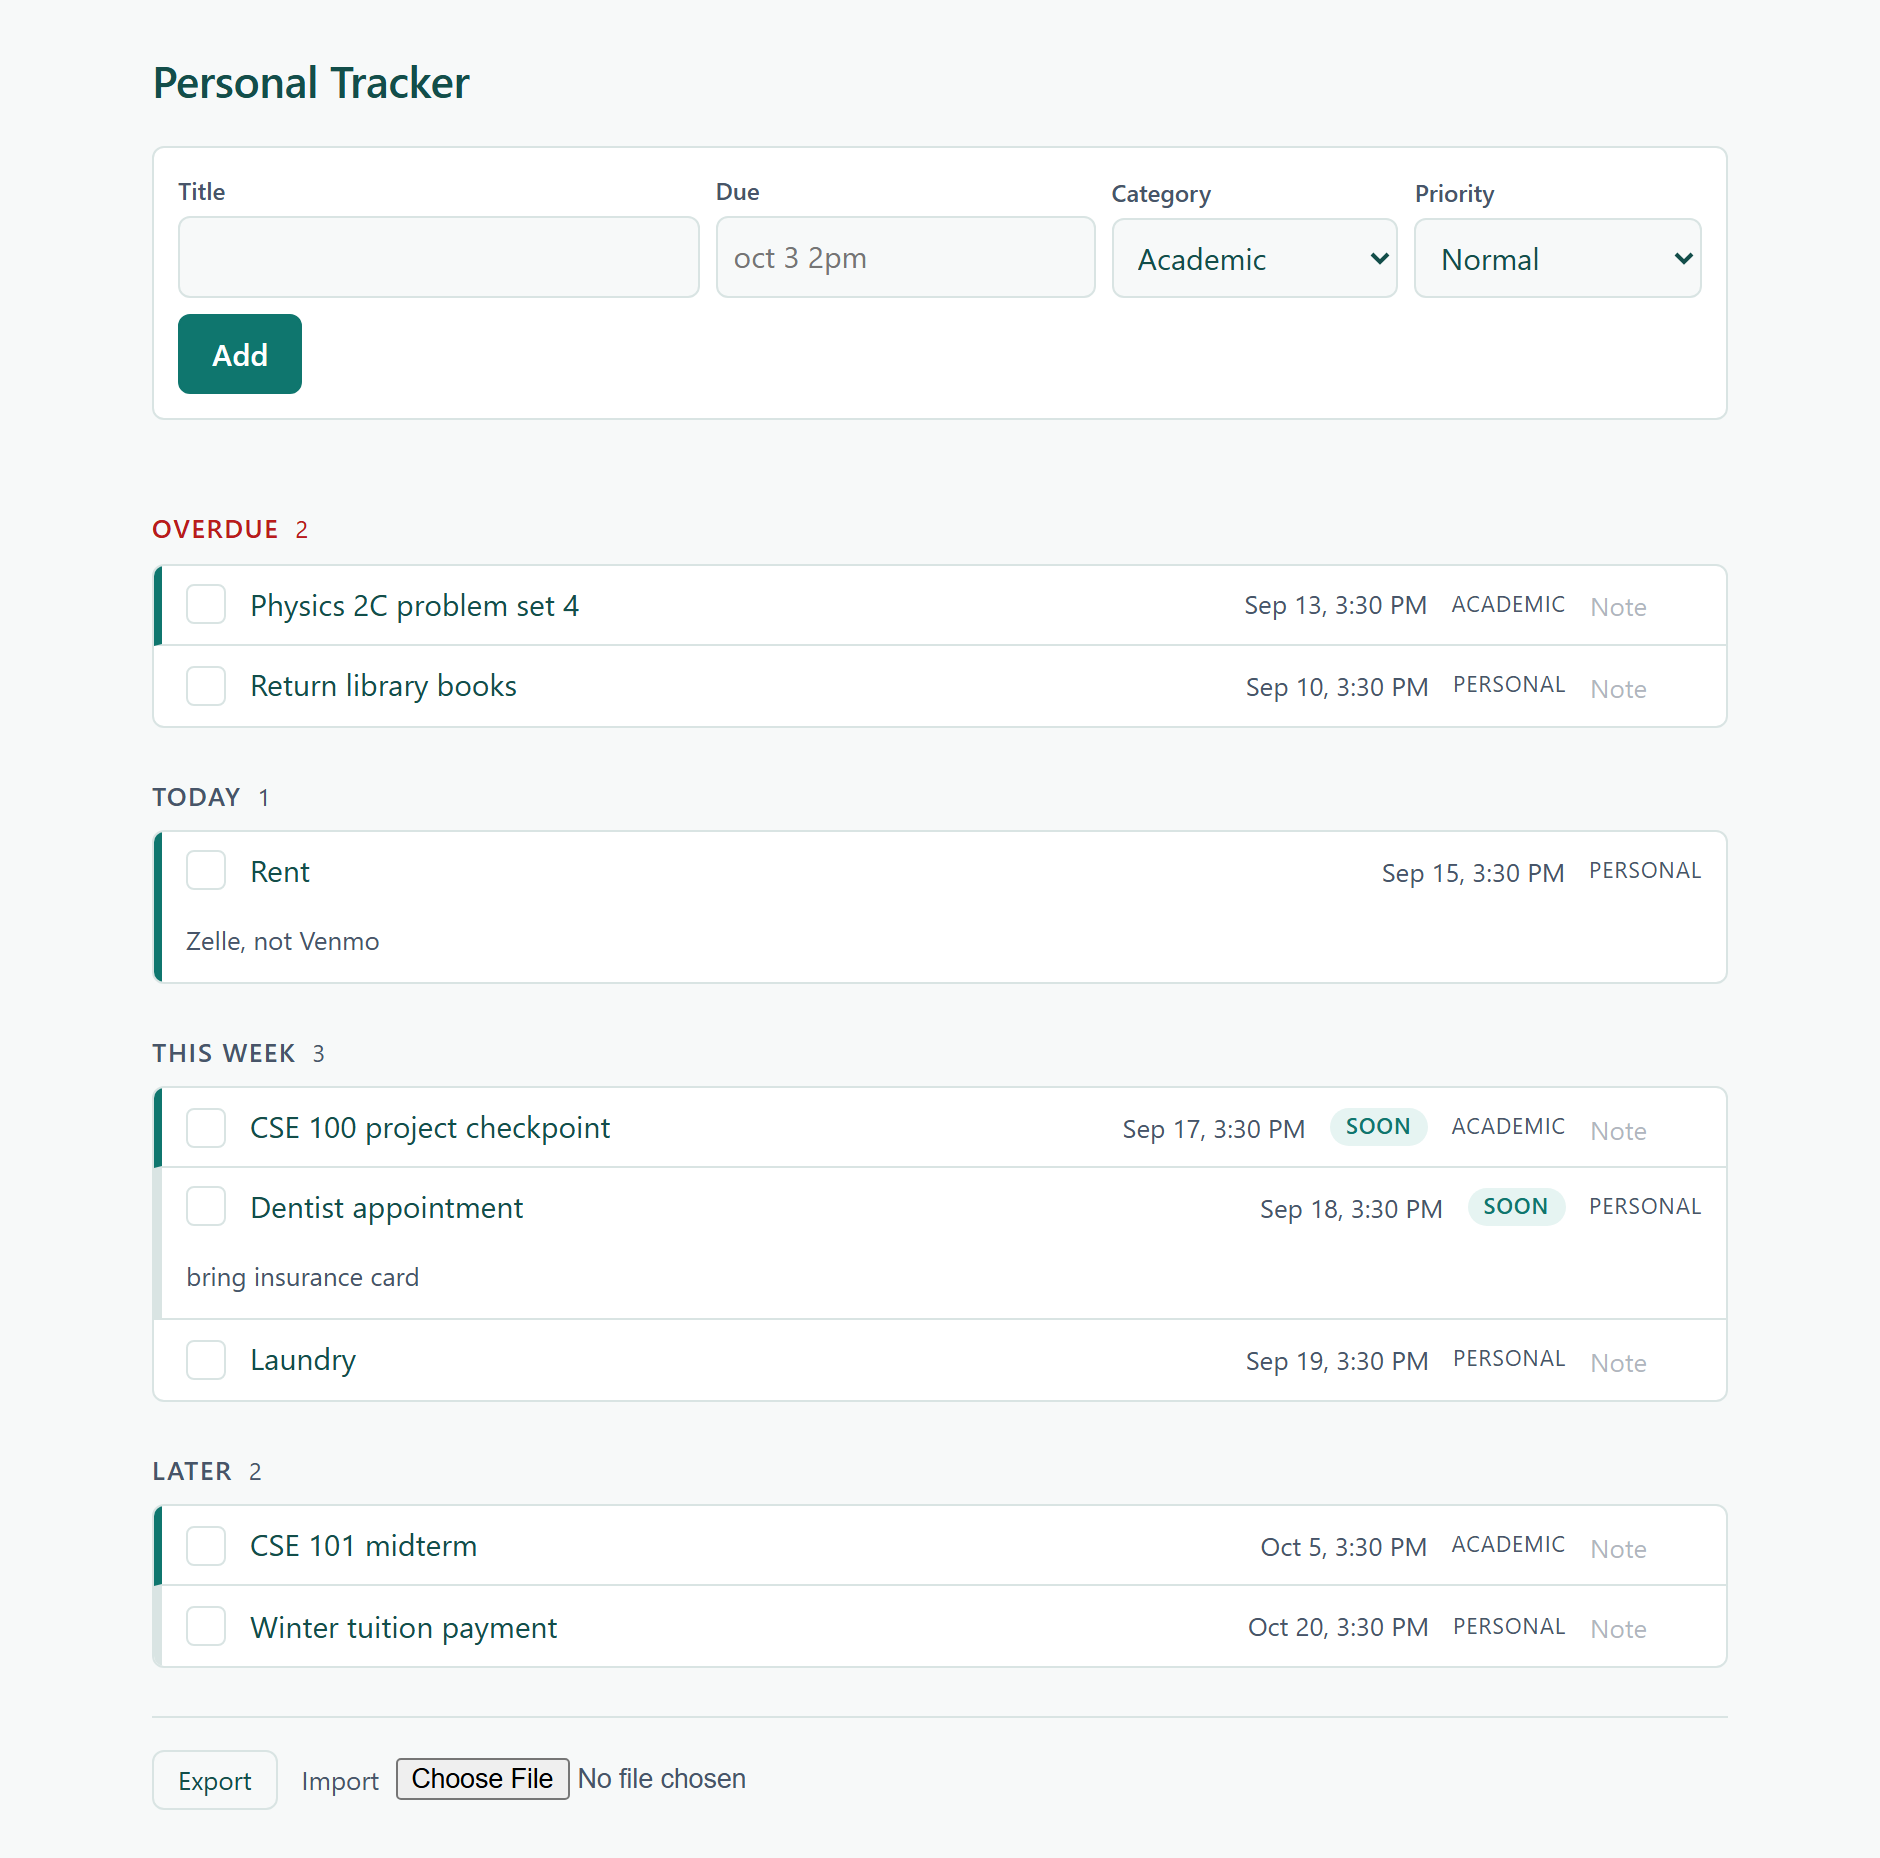
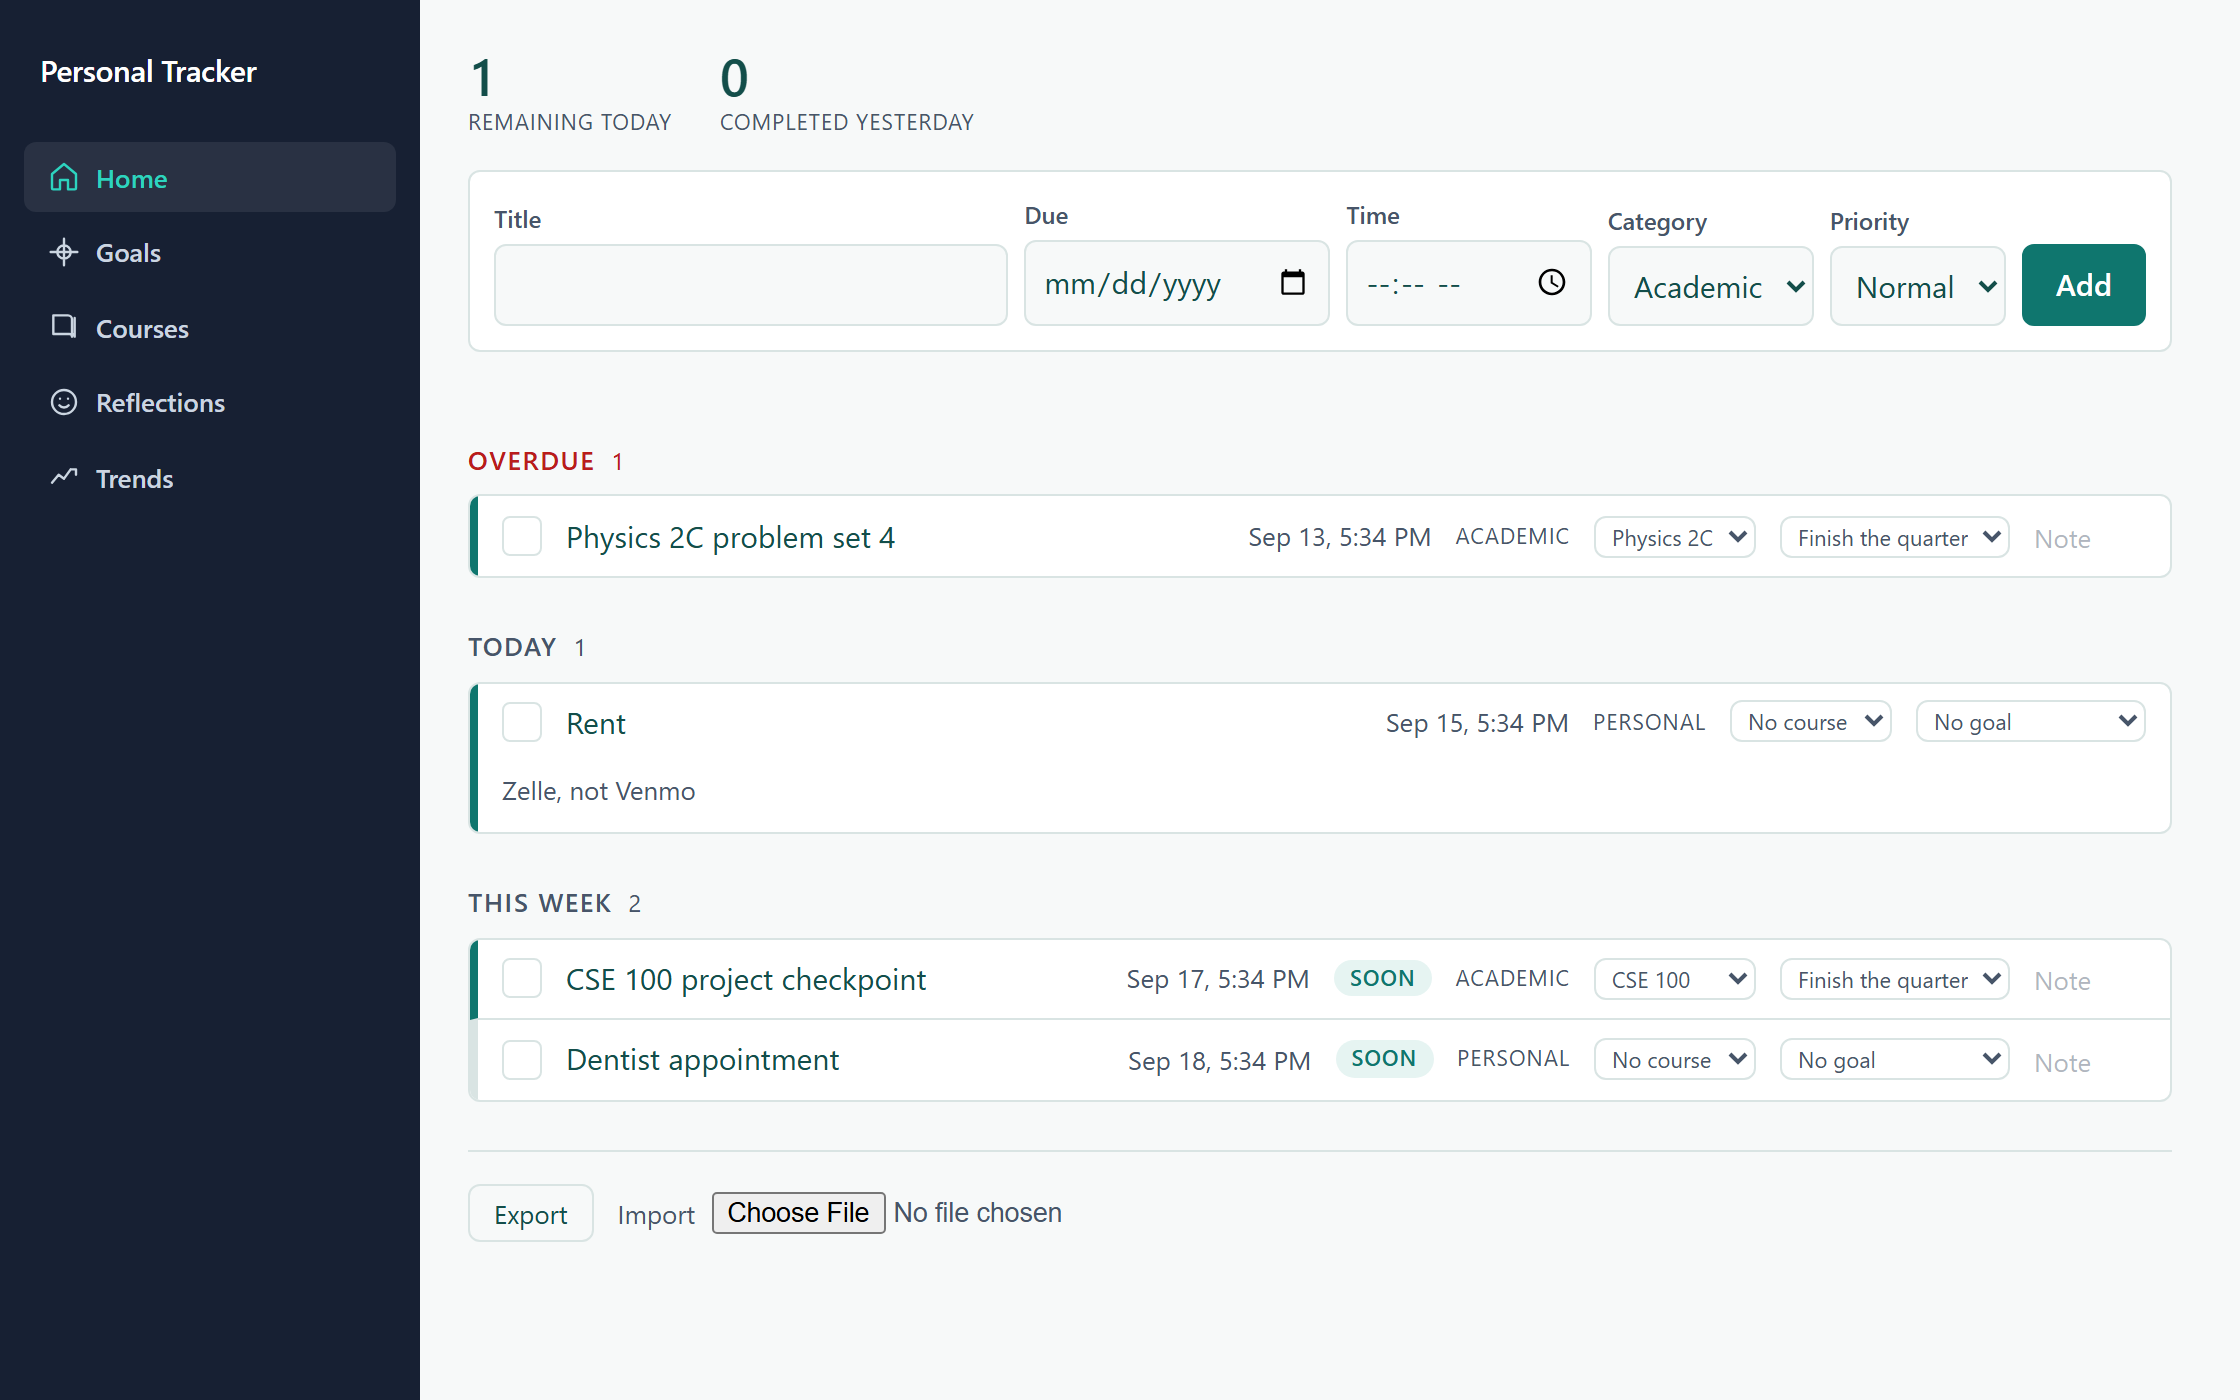
docs: correct documentation that still described version 1
The README told readers to type dates, which US-19 removed, and listed course cards as unbuilt. CLAUDE.md and the definition of done carried the same stale scope. The screenshot was the v1 dashboard. Also fixes one broken link the checker found.

diff --git a/README.md b/README.md
@@ -2,16 +2,19 @@
 
 [![CI](https://github.com/AdityaJadhav17/Personal-Tracker/actions/workflows/ci.yml/badge.svg)](https://github.com/AdityaJadhav17/Personal-Tracker/actions/workflows/ci.yml)
 
-One page holding every deadline you have, coursework and life in the same list,
-grouped by urgency and ordered by priority. It runs in your browser on your own
-laptop. No account, no server, nothing leaves the machine.
+A personal dashboard for deadlines, goals, courses and how your days are
+going. It runs in your browser on your own laptop. No account, no server,
+nothing leaves the machine.
 
 ![The dashboard, showing overdue, today, this week and later groups](docs/screenshot.png)
 
 ## What it does
 
-Add anything with a date and a consequence: a midterm, rent, a dentist
-appointment, a friend's birthday. The dashboard sorts them into four groups.
+Five views, in a sidebar.
+
+**Home** holds anything with a date and a consequence: a midterm, rent, a
+dentist appointment, a friend's birthday. Two numbers at the top say what is
+left today and what you finished yesterday, then the list sorts itself.
 
 - **Overdue** sits above everything, so you never scroll past something you
   have already missed.
@@ -21,14 +24,27 @@ appointment, a friend's birthday. The dashboard sorts them into four groups.
 - Anything due in the next three days carries a **Soon** marker, whatever its
   priority.
 
-Type a date however you like. `oct 3`, `10/3`, `2026-10-03` and `oct 3 2pm` all
-work. With no time, a deadline means 23:59 that day.
+Pick a date, and a time if it needs one. With no time, a deadline means 23:59
+that day. Dates are stored as fixed moments, so a deadline set at 5pm still
+reads as 5pm on the other side of a daylight saving change.
 
 Mark something done from the keyboard, and press `u` to undo if you hit the
 wrong row. Attach a short note to any item.
 
+**Goals** are things to aim at with a date on them. Items can belong to a goal,
+and each goal shows how much of its work is finished.
+
+**Courses** keeps the details you would otherwise dig out of email every week:
+where it meets, your professor's address, when office hours are.
+
+**Reflections** asks how the day went, on a scale of five, with a note. One
+entry per day.
+
+**Trends** plots those scores and what you finished, one point per day, with
+the same numbers in a table underneath.
+
 Export everything to a JSON file you keep, and import it back on another
-machine.
+machine. Files written by the first version still import.
 
 ## Run it
 
@@ -87,8 +103,8 @@ No accounts, no cloud sync, no hosted backend, no mobile app, no collaboration.
 GitHub holds the source and nothing else.
 
 Also absent, and deliberately: phone notifications, calendar export, recurring
-items, course reference cards, and filtering by category. Items still carry a
-category so that today's export files stay readable once filtering arrives.
+items, and filtering by category. Items still carry a category so that today's
+export files stay readable once filtering arrives.
 
 The honest limitation: a browser tab on a laptop cannot reach your phone without
 a server, so this version reminds you only while you have it open. Calendar
@@ -98,8 +114,12 @@ export is the leading candidate for fixing that, and
 ## How it is built
 
 React 18 and TypeScript on Vite. Vitest with React Testing Library for unit and
-component tests, Playwright for end to end. No component library, no state
-library, no router, no date library.
+component tests, Playwright for end to end.
+
+Two runtime dependencies, React and React DOM. No component library, no state
+library, no router, no date library and no chart library: the sidebar icons and
+the trend charts are inline SVG, and the colour palette is checked for contrast
+by a test that reads the stylesheet.
 
 [docs/](docs/README.md) holds the rest: the user research every test ID traces
 back to, the data model, and a decision log that explains why each choice went

diff --git a/docs/session-log.md b/docs/session-log.md
@@ -683,7 +683,7 @@ gates green. M4 is complete: US-19, US-07, US-13.
 **AC-13.1 is met for the views that exist, not for four.** The criterion lists
 Home, Goals, Courses and Reflections. Goals and Reflections are M5 and M6. A nav
 item leading to "not built yet" is chrome pointing nowhere, which is exactly why
-[ui-reference.md](../design/ui-reference.md) rejected the sidebar in v1. Adding
+[ui-reference.md](design/ui-reference.md) rejected the sidebar in v1. Adding
 each one is a single entry in `VIEWS` when its view lands.
 
 **No test changed when the tab row became a sidebar.** The Shell kept every
@@ -831,3 +831,34 @@ while it is open, which remains the honest limitation from v1.
 **Next, and it is not code.** The definition of done still has one item nobody
 can write a test for: three real school days with real deadlines in it, logged
 here.
+
+---
+
+## 2026-09-15: the documentation caught up with the app
+
+No story was left to build, so this was a defect rather than a feature: three
+documents described version 1 while the app was version 2.
+
+**What was wrong.** The README told a stranger to type "oct 3 2pm", which US-19
+deleted, and listed course reference cards as not built, which US-07 built. It
+described four groups and no sidebar. `CLAUDE.md` carried the same stale "not in
+v1" list. `definition-of-done.md` still said "all ten MVP stories" when there are
+eighteen. The screenshot was the unstyled v1 dashboard.
+
+All four are now correct, and the screenshot is v2: the sidebar, the stat row,
+the date and time controls, and the course and goal controls on each item.
+
+**The link checker earned its keep.** It found one broken link I had written by
+hand into a later session-log entry after the docs were reorganised, pointing at
+`../design/ui-reference.md` from a file that is not in a subdirectory. Thirteen
+markdown files, zero broken links now.
+
+**One thing worth watching, from looking at the screenshot.** An item row now
+carries a done control, a title, a due time, a Soon marker, a category tag, a
+course select, a goal select and a note. The goal name truncates. The reference
+screenshots put a single coloured tag on a task row, not two dropdowns. This is
+not broken and no acceptance criterion covers it, but the row is doing more work
+than it comfortably can, and it is the first thing to reconsider if the dashboard
+stops passing the three-second test in real use.
+
+**Still the only open item.** Three real school days, logged here.

diff --git a/CLAUDE.md b/CLAUDE.md
@@ -30,6 +30,11 @@ Storage is `localStorage`, reached through two functions in `src/storage/db.ts`.
 There is no `StorageAdapter` interface and no IndexedDB. See the decision log
 for why.
 
+The database is at version 2: items, goals, courses and reflections. Both
+`load` and `parseImport` upgrade a version 1 database through
+`src/domain/migrate.ts`, so an export taken before goals existed still opens.
+Any future shape change does the same rather than orphaning data.
+
 ## How we work
 
 These are Aditya's rules, not suggestions.
@@ -119,10 +124,13 @@ There is deliberately no encryption at rest. BitLocker covers the realistic
 threat, and a passphrase prompt on every launch would wreck an app whose value
 is being fast to check. See the decision log.
 
-## Not in v1
+## Not built
 
-Phone notifications, calendar export, recurring items, course reference cards,
-category filtering. Items still carry a `category` field so that v1 export
-files stay importable once filtering arrives.
+Phone notifications, calendar export, recurring items, and category filtering
+(US-08). Items still carry a `category` field so that export files stay
+importable once filtering arrives.
 
 Do not build toward these. When one becomes real it gets its own story.
+
+The app still only reminds you while it is open. That is the honest limitation
+and it is stated in the README rather than buried.

diff --git a/docs/engineering/definition-of-done.md b/docs/engineering/definition-of-done.md
@@ -49,8 +49,9 @@ checklist you will lie to yourself about in week nine.
 
 **Functionality**
 
-- [ ] All ten MVP stories pass their story-level checklist: US-01 through
-      US-06, US-09 through US-12.
+- [ ] Every story in scope passes the story-level checklist above. Version 1 was
+      US-01 to US-06 and US-09 to US-12; version 2 adds US-07 and US-13 to
+      US-20. US-08, the category filter, is still deferred.
 - [ ] Export produces a file that import restores exactly, proven by a
       round-trip test that compares the full database before and after, not by
       spot-checking fields.
